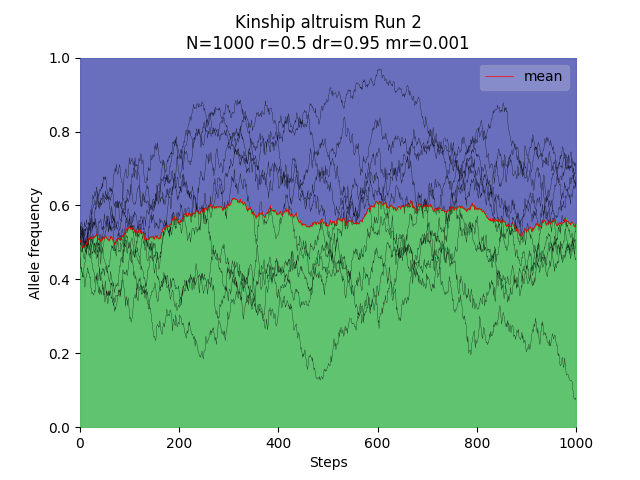
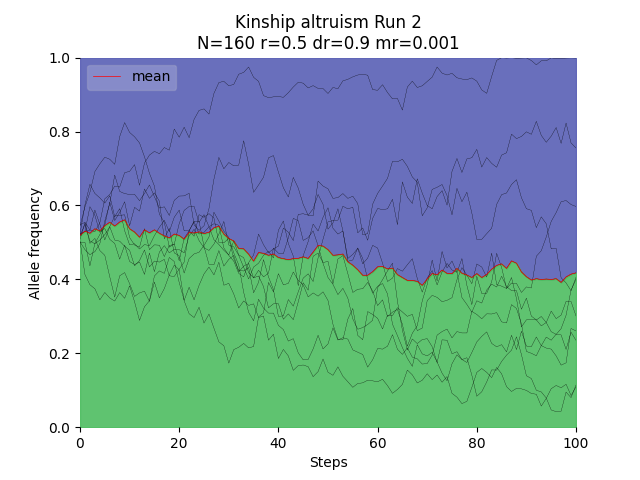
fixes

diff --git a/hamilton/batch_run.py b/hamilton/batch_run.py
@@ -1,19 +1,20 @@
 from multigene_model import MultigeneFamilyModel
+from ibd_model import IBDFamilyModel
 from mesa.batchrunner import batch_run
 import pandas as pd
 
 if __name__ == '__main__':
-    params = {"N": 1000,#range(500, 1100, 100),
-              "r": 0.5, #[i*0.1 for i in range(2, 7, 1)]
-              "dr":  0.95,
+    params = {"N": 140, #range(140, 220, 20),
+              "r": 0.5, #[i*1200.1 for i in range(2, 7, 1)]
+              "dr":  0.9,
               "mr": 0.001 #[0.001 * x for x in range(1,4)] #0.001
               }
 
     results = batch_run(
-        MultigeneFamilyModel,
+        IBDFamilyModel,
         parameters=params,
-        iterations=10,
-        max_steps=500,
+        iterations=15,
+        max_steps=200,
         number_processes=None,
         data_collection_period=1,
         display_progress=True,
@@ -21,5 +22,5 @@ if __name__ == '__main__':
     
     results_df = pd.DataFrame(results)
     print(results_df)
-    results_df.to_csv("./data/result.csv")
+    results_df.to_csv("./data/idb_result.csv")
 

diff --git a/hamilton/plotter.py b/hamilton/plotter.py
@@ -4,7 +4,7 @@ import matplotlib.pyplot as plt
 from mpl_toolkits.mplot3d import *
 import numpy as np
 
-data = pd.read_csv("data/result.csv", index_col=0)
+data = pd.read_csv("data/idb_result.csv", index_col=0)
 multidata = pd.read_csv("data/multi_result.csv", index_col=0)
 
 
@@ -182,6 +182,6 @@ def scatter3D(data, param1, param2, result, labels, all_params, title=""):
 #scatter3D(multidata, param1="mr", param2="dr", result="altruistic fraction", labels=labels,
 #          all_params=["N", "r", "dr", "mr"], title="scatter")
 
-#multi_plot_prevalence(multidata)
-#plot_prevalence(multidata)
+#multi_plot_prevalence(data)
+plot_prevalence(data)
 #plot_rep_fitness(data)

diff --git a/hamilton/ibd_model.py b/hamilton/ibd_model.py
@@ -32,7 +32,7 @@ class IBDFamilyAgent(FamilyAgent):
         if self.genotype:
             # computing the benefit
             A_room.remove(self)
-            b = sum([self.model.tree.ig_ibd_coeff(pre + str(self.unique_id),
+            b = sum([1 * self.model.tree.ig_ibd_coeff(pre + str(self.unique_id),
                     pre + str(a.unique_id)) for a in A_room])
 
             if b > 1:
